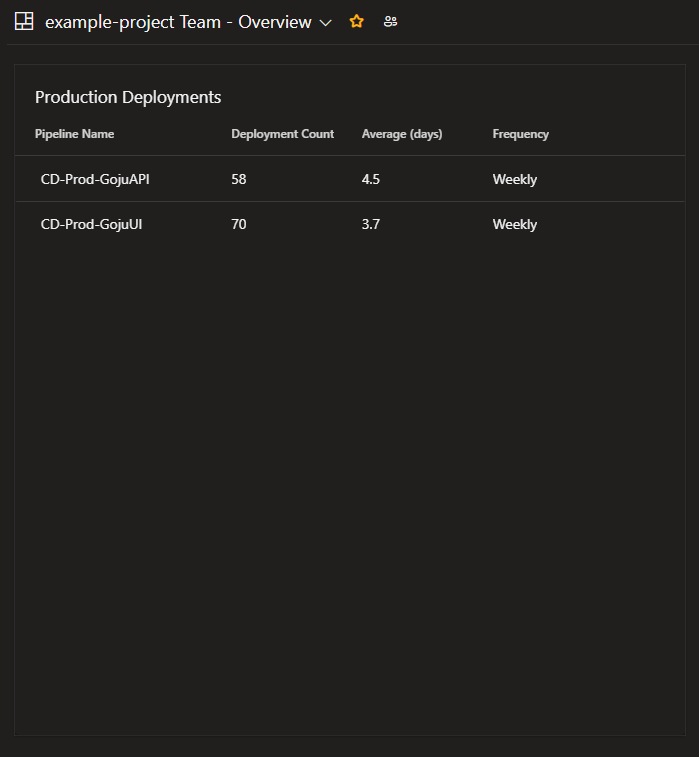
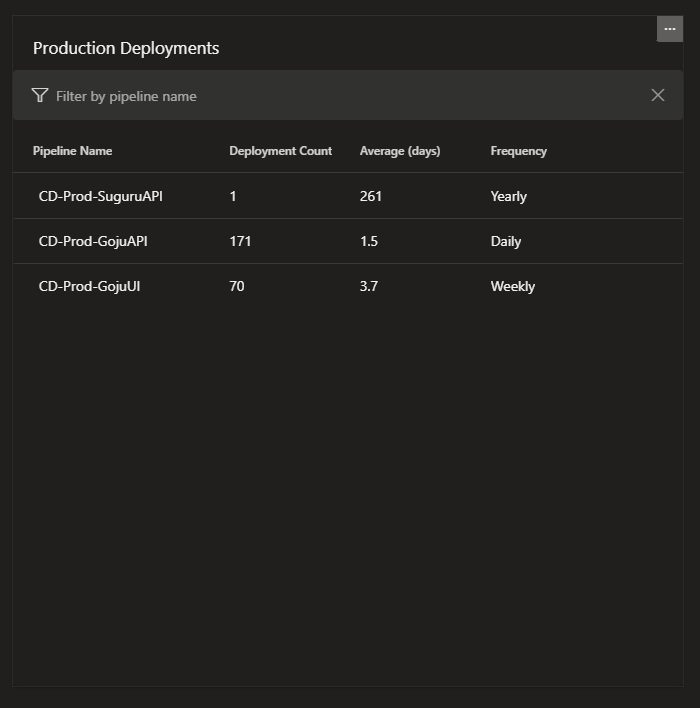
Filter by pipeline name

diff --git a/src/deployment-monitor-widget/deployment-monitor-widget.tsx b/src/deployment-monitor-widget/deployment-monitor-widget.tsx
@@ -21,18 +21,86 @@ import { getDeploymentRecords } from "./utility";
 import { showRootComponent } from "../root";
 import { IDeploymentMonitorWidgetSettings } from "../widget-configuration/settings";
 import { Link } from "azure-devops-ui/Link";
+import { FilterBar } from "azure-devops-ui/FilterBar";
+import { Filter, FILTER_CHANGE_EVENT, IFilterState } from "azure-devops-ui/Utilities/Filter";
+import { KeywordFilterBarItem } from "azure-devops-ui/TextFilterBarItem";
 
 interface IDeploymentMonitorWidgetState {
   title: string;
   environmentDetails: EnvironmentDetails[];
 }
 
+interface FilterValue extends IFilterState {
+  pipelineName: {
+    value: string;
+  };
+}
+
 class DeploymentMonitorWidget extends React.Component<{}, IDeploymentMonitorWidgetState> implements Dashboard.IConfigurableWidget {
+  private filter: Filter;
+  private allTableItems: ITableItem[] = [];
+  private filteredTableItems: ITableItem[] = [];
+  private itemProvider = new ObservableValue<ArrayItemProvider<ITableItem>>(
+    new ArrayItemProvider([])
+  );
+  private sortFunctions = [
+    (item1: ITableItem, item2: ITableItem): number => {
+      return item1.name.localeCompare(item2.name);
+    },
+    (item1: ITableItem, item2: ITableItem): number => {
+      return item1.deploymentCount - item2.deploymentCount;
+    },
+    (item1: ITableItem, item2: ITableItem): number => {
+      return item1.average - item2.average;
+    },
+    (item1: ITableItem, item2: ITableItem): number => {
+      return item1.deploymentFrequency.localeCompare(item2.deploymentFrequency);
+    },
+  ];
+  private sortingBehavior = this.updateSortingBehavior();
+
+  constructor(props: {}) {
+    super(props);
+
+    this.filter = new Filter();
+    this.filter.subscribe(() => {
+      this.applyFilter();
+    }, FILTER_CHANGE_EVENT);
+  }
 
   componentDidMount() {
     SDK.init().then(() => {
       SDK.register("deployments-widget", this);
     });
+  }
+
+  applyFilter() {
+    const filterValue = this.filter.getState() as FilterValue;
+    if (filterValue?.pipelineName === undefined) {
+      this.filteredTableItems = this.allTableItems;
+    }
+    else {
+      this.filteredTableItems = this.allTableItems.filter(item => item.name.toLowerCase().includes(filterValue.pipelineName.value.toLowerCase()));
+    }
+
+    this.itemProvider.value = new ArrayItemProvider(this.filteredTableItems);
+    this.sortingBehavior = this.updateSortingBehavior();
+  }
+
+  updateSortingBehavior(): ColumnSorting<ITableItem> {
+    return new ColumnSorting<ITableItem>(
+      (columnIndex: number, proposedSortOrder: SortOrder) => {
+        this.itemProvider.value = new ArrayItemProvider(
+          sortItems(
+            columnIndex,
+            proposedSortOrder,
+            this.sortFunctions,
+            columns,
+            this.filteredTableItems
+          )
+        );
+      }
+    );
   }
 
   render(): JSX.Element {
@@ -42,7 +110,7 @@ class DeploymentMonitorWidget extends React.Component<{}, IDeploymentMonitorWidg
 
     const { title, environmentDetails } = this.state;
 
-    const rawTableItems: ITableItem[] = environmentDetails.map(environmentDetail => ({
+    this.allTableItems = environmentDetails.map(environmentDetail => ({
       name: environmentDetail.name,
       deploymentCount: environmentDetail.deploymentRecordCount,
       deploymentFrequency: environmentDetail.deploymentFrequency,
@@ -50,55 +118,38 @@ class DeploymentMonitorWidget extends React.Component<{}, IDeploymentMonitorWidg
       average: environmentDetail.average,
     }));
 
-    const sortingBehavior = new ColumnSorting<ITableItem>(
-      (columnIndex: number, proposedSortOrder: SortOrder) => {
-        itemProvider.value = new ArrayItemProvider(
-          sortItems(
-            columnIndex,
-            proposedSortOrder,
-            sortFunctions,
-            columns,
-            rawTableItems
-          )
-        );
-      }
-    );
+    this.filteredTableItems = this.allTableItems;
 
-    const sortFunctions = [
-      (item1: ITableItem, item2: ITableItem): number => {
-        return item1.name.localeCompare(item2.name);
-      },
-      (item1: ITableItem, item2: ITableItem): number => {
-        return item1.deploymentCount - item2.deploymentCount;
-      },
-      (item1: ITableItem, item2: ITableItem): number => {
-        return item1.average - item2.average;
-      },
-      (item1: ITableItem, item2: ITableItem): number => {
-        return item1.deploymentFrequency.localeCompare(item2.deploymentFrequency);
-      },
-    ];
-
-    const itemProvider = new ObservableValue<ArrayItemProvider<ITableItem>>(
-      new ArrayItemProvider(rawTableItems)
+    this.itemProvider = new ObservableValue<ArrayItemProvider<ITableItem>>(
+      new ArrayItemProvider(this.filteredTableItems)
     );
 
     return (
-      this.state && <Card className="flex-grow bolt-table-card" titleProps={{ text: title, ariaLevel: 3 }}>
-        <Observer itemProvider={itemProvider}>
-          {(observableProps: { itemProvider: ArrayItemProvider<ITableItem> }) => (
-            <Table<ITableItem>
-              ariaLabel="Pipelines Table"
-              columns={columns}
-              behaviors={[sortingBehavior]}
-              itemProvider={observableProps.itemProvider}
-              scrollable={true}
-              role="table"
-              pageSize={100}
-              containerClassName="h-scroll-auto"
-            />
-          )}
-        </Observer>
+      this.state &&
+      <Card className="bolt-table-card" titleProps={{ text: title, ariaLevel: 3 }}>
+        <div className="flex-grow">
+          <div className="flex-grow">
+            <FilterBar filter={this.filter}>
+              <KeywordFilterBarItem filterItemKey="pipelineName" placeholder="Filter by pipeline name" />
+            </FilterBar>
+          </div>
+          <div className="flex-grow">
+            <Observer itemProvider={this.itemProvider}>
+              {(observableProps: { itemProvider: ArrayItemProvider<ITableItem> }) => (
+                <Table<ITableItem>
+                  ariaLabel="Pipelines Table"
+                  columns={columns}
+                  behaviors={[this.sortingBehavior]}
+                  itemProvider={observableProps.itemProvider}
+                  scrollable={true}
+                  role="table"
+                  pageSize={100}
+                  containerClassName="h-scroll-auto"
+                />
+              )}
+            </Observer>
+          </div>
+        </div>
       </Card>
     );
   }
